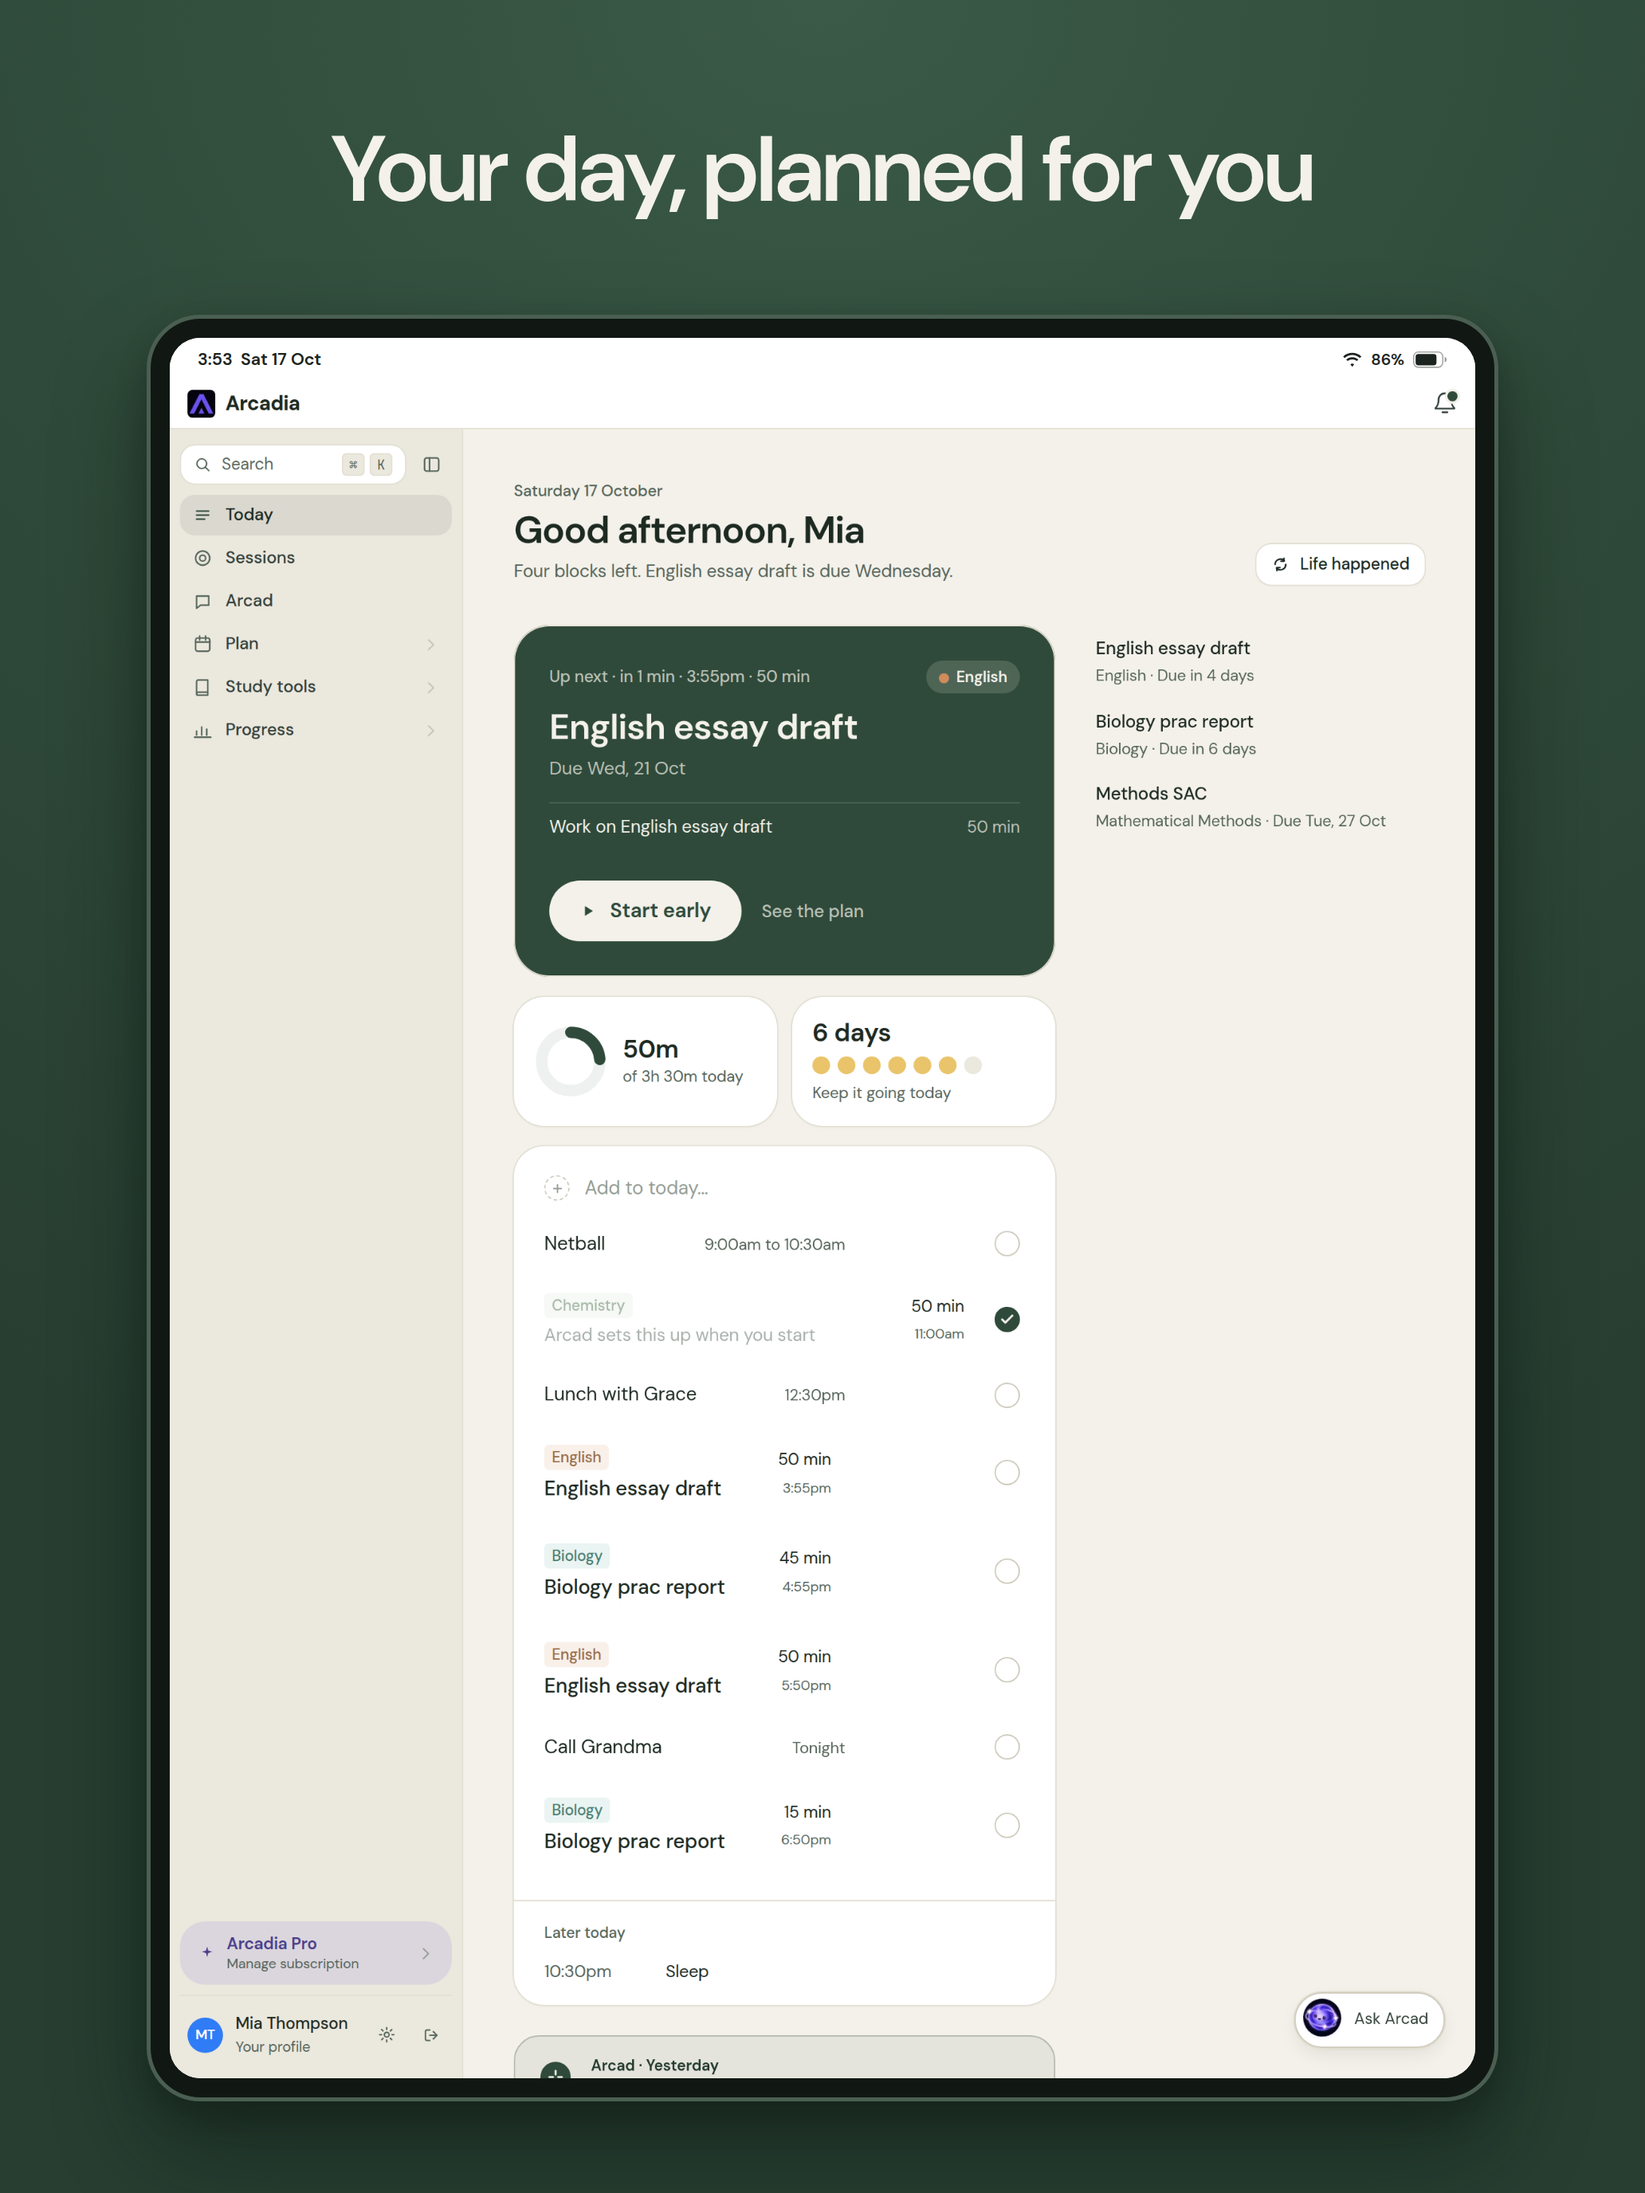
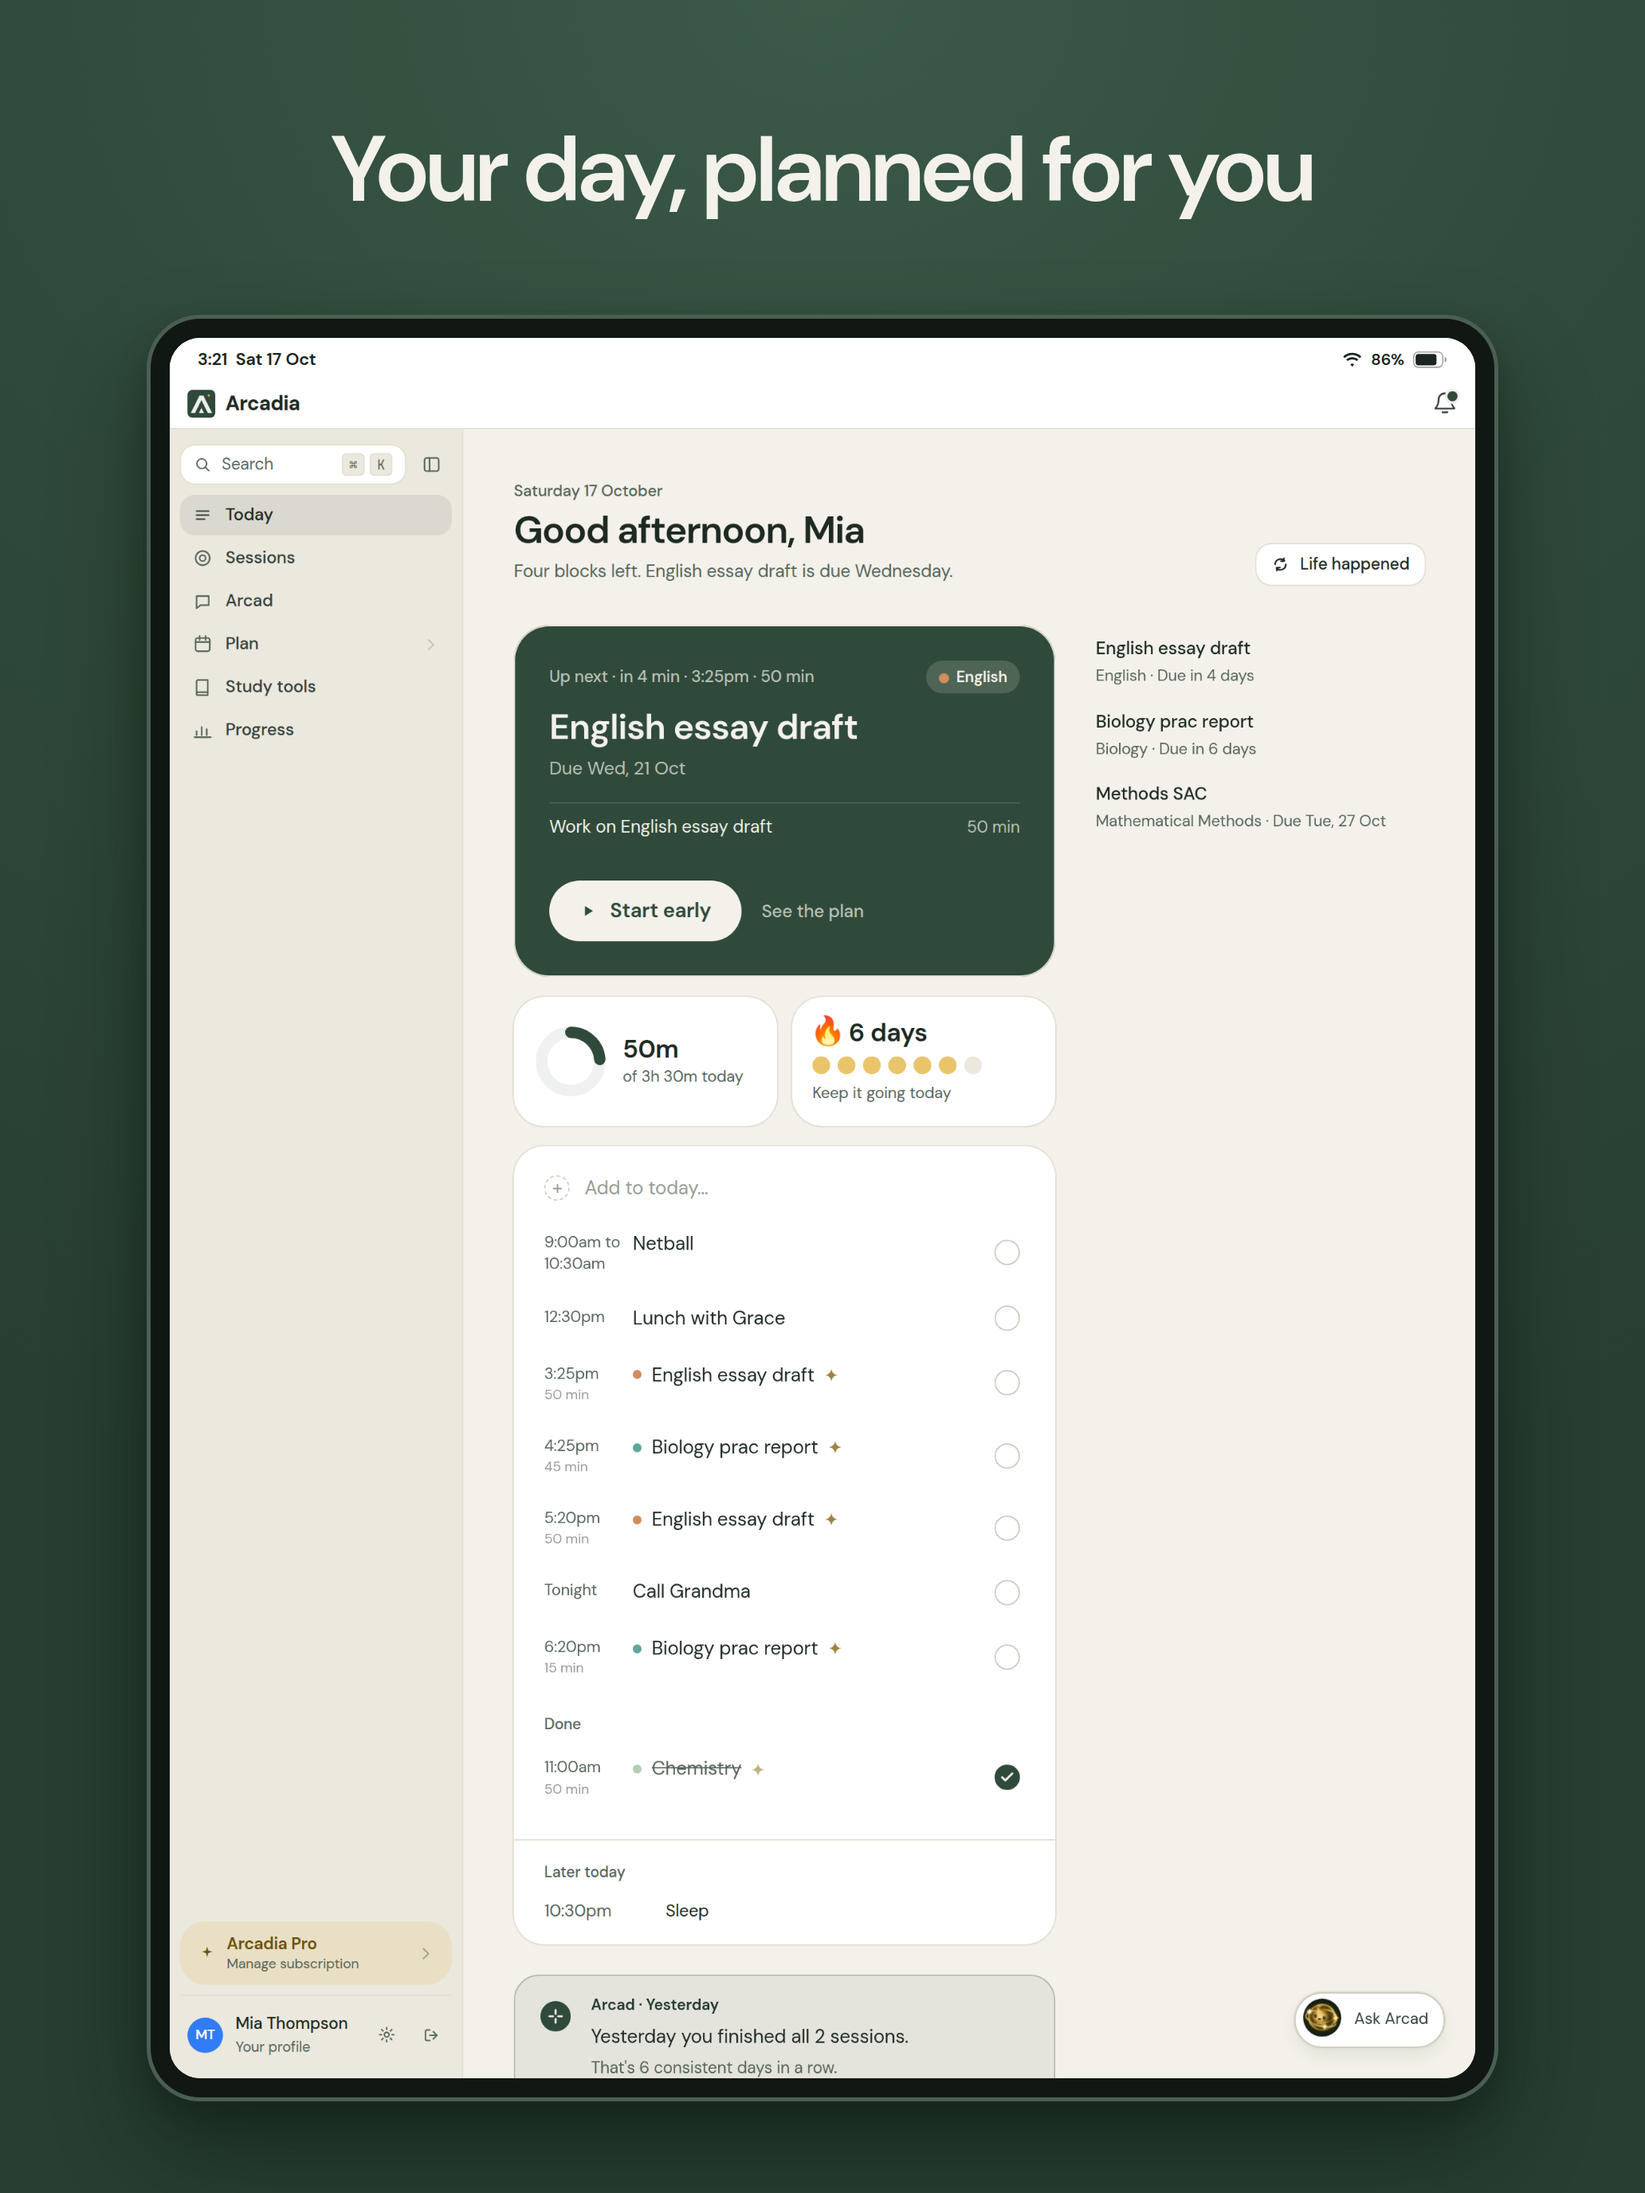
chore(marketing): App Store screenshots on the final design
Reran the screenshot pipeline with the same demo student and captions
after the brand, Today row, Done group and motion changes, so the
iPhone 6.9" (1320x2868) and iPad 13" (2064x2752) sets show the new logo,
gold accents and final Today. RGB PNGs, no alpha.

Claude-Session: https://claude.ai/code/session_01EbzN6iXGwo1v8ERmr6Hd69

diff --git a/marketing/app-store-screenshots/README.md b/marketing/app-store-screenshots/README.md
@@ -1,6 +1,6 @@
 # App Store screenshots (version 1.2)
 
-Sage Day design, four per device, in upload order.
+The final Day design (sage, cream and gold, with the new logo), four per device, in upload order.
 
 | # | File | Caption | Screen |
 |---|------|---------|--------|
@@ -19,6 +19,7 @@ All are RGB PNGs with no alpha channel.
 ## How they were made
 
 - Captured from the real app running locally, inside a stand-in for the iOS Capacitor shell, so they show the native layout: no wordmark on iPhone, and App Store billing.
+- Recaptured after the sage, cream and gold brand, the one row design on Today and the Done group shipped.
 - iPhone captures are 440 x 956 points at 3x. iPad captures are 1032 x 1376 points at 2x, the iPad's own layout: the sidebar in 1 and 4, and the collapsed rail with the Arcad panel in 2.
 - The status bar, device frame and caption are drawn around each capture.
 - The demo student is Mia Thompson, Year 12: Chemistry, Mathematical Methods, English, Biology and Psychology. She has school on weekdays, netball on Thursday and a six-day streak.
